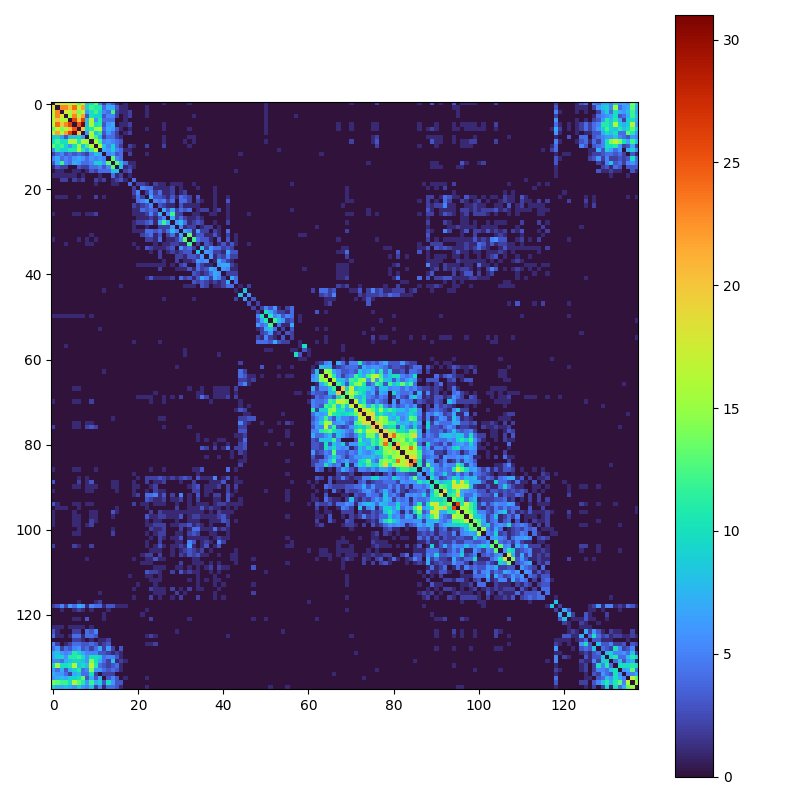
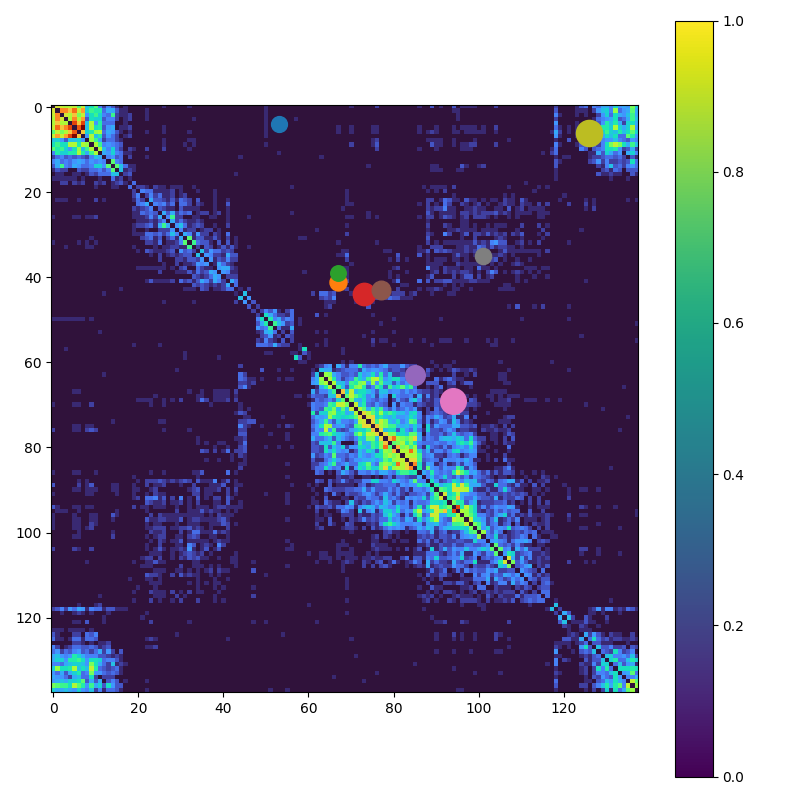
fix: update skatepark_2 data and correct youtube links

diff --git a/app.py b/app.py
@@ -34,11 +34,11 @@ SEQUENCE_VIDEOS = {
 # GUI VIDEO LINKS (HOCA BURADAN LİNKLERİ DÜZENLEYEBİLİR)
 # ========================================================================
 GUI_VIDEOS = {
-    "spot_indoor_obstacles": "https://www.youtube.com/watch?v=0AtS6m-pwZI",
+    "indoor_obstacles": "https://www.youtube.com/watch?v=0AtS6m-pwZI",
     "spot_forest_hard": "https://www.youtube.com/watch?v=MVPtSsw274s",
     "spot_indoor_building_loop": "https://www.youtube.com/watch?v=oV3owInlcCY",
     "spot_outdoor_day_skatepark_1": "https://www.youtube.com/watch?v=M5C0eX6gyNo",
-    "spot_outdoor_day_skatepark_2": "https://www.youtube.com/watch?v=PcSp6wdFgU8",
+    "spot_outdoor_day_skatepark_2": "https://www.youtube.com/watch?v=v-4sAATWNE4",
 }
 
 def get_sequence_info(folder_name, version_dir):